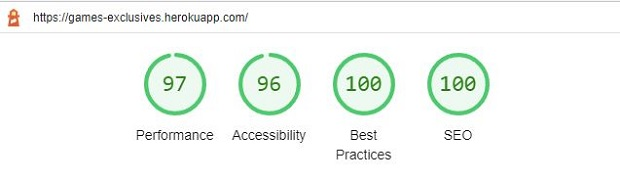
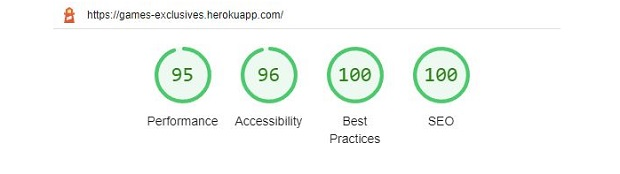
Changed lighthouse image in testing file, added comments in base.html

Changed region(s): [[0.0, 0.0, 1.0, 0.2011], [0.2145, 0.2586, 0.4903, 0.8046], [0.521, 0.2586, 0.7968, 0.8908]]

diff --git a/templates/base.html b/templates/base.html
@@ -14,6 +14,7 @@
     <meta name="keywords" content="game, games, video games, video games store, xbox games, xbox only games,
         xbox exclusive games, playstation games, playstation only games, playstation exclusive games, 
         nintendo games, nintendo exclusive games, pc games, pc only games, classic pc games, pc exclusive games">
+     <!-- Favicon -->   
     <link rel="shortcut icon" type="image/png" href="{% static 'favicon/favicon.ico' %}" title="Games Exclusives">
     {% endblock %}
 
@@ -25,13 +26,14 @@
     <link rel="stylesheet" href="https://cdn.jsdelivr.net/npm/bootstrap@4.6.1/dist/css/bootstrap.min.css"
         integrity="sha384-zCbKRCUGaJDkqS1kPbPd7TveP5iyJE0EjAuZQTgFLD2ylzuqKfdKlfG/eSrtxUkn" crossorigin="anonymous">
     <link rel="stylesheet" href="{% static 'css/base.css' %}">
+    <!-- Google fonts -->
     <link rel="preconnect" href="https://fonts.gstatic.com" crossorigin>
     <link rel="stylesheet" href="https://fonts.googleapis.com/css2?family=Electrolize&display=swap">
     {% endblock %}
 
     {% block extra_css %}
     {% endblock %}
-
+    <!-- Bootstrap JS, Popper, jquery -->
     {% block corejs %}
     <script src="https://cdn.jsdelivr.net/npm/jquery@3.5.1/dist/jquery.min.js"
         integrity="sha256-9/aliU8dGd2tb6OSsuzixeV4y/faTqgFtohetphbbj0=" crossorigin="anonymous"></script>

diff --git a/TESTING.md b/TESTING.md
@@ -398,28 +398,37 @@ All of the listed tests were performed on desktop PC, Dell laptop, iPhone 8, iPh
 ## **Lighthouse Testing**
 <details>
 <summary>Desktop lighthouse testing</summary>
-  Home page
+  
+  **HOME PAGE**
+
   ![Home page - lighthouse desktop](media/testing/validators/lighthouse_desktop.JPG)
 
-  Games page
+  **GAMES PAGE**
+
   ![Games page - lighthouse desktop](media/testing/validators/lighthouse_games_desktop.JPG)
 
-  Game detail page
+  **GAME DETAIL PAGE**
+
   ![Game detail page - lighthouse desktop](media/testing/validators/lighthouse_game_detail_desktop.JPG)
 
-  Profile page
+ **PROFILE PAGE**
+
   ![Profile page - lighthouse desktop](media/testing/validators/lighthouse_profile_desktop.JPG)
 
-  Favourites page
+ **FAVOURITES PAGE**
+
   ![Favourites page - lighthouse desktop](media/testing/validators/lighthouse_favourites_desktop.JPG)
 
-  Contact page
+**CONTACT PAGE**
+
   ![Contact page - lighthouse desktop](media/testing/validators/lighthouse_contact_desktop.JPG)
 
-  Shopping basket page
+  **SHOPPING BASKET PAGE**
+
   ![Shopping basket - lighthouse desktop](media/testing/validators/lighthouse_shopping_basket_desktop.JPG)
 
-  Checkout page
+  **CHECKOUT PAGE**
+
   ![Checkout page - lighthouse desktop](media/testing/validators/lighthouse_checkout_desktop.JPG)
 </details>
 
@@ -427,12 +436,15 @@ All of the listed tests were performed on desktop PC, Dell laptop, iPhone 8, iPh
 <summary>Mobile lighthouse testing</summary>
 
 - While Lighthouse testing was quite high in desktop version, the performance during mobile testing was lacking. It is mostly due to render-blocking resources like jquery, bootstrap js and css. 
-I have originally got a very high score on Lighthouse under mobile performance, but it had dropped down and it's moving around 70-82 points only on Performance. 
 
-Home page - first testing
+- I have originally got a very high score on Lighthouse under mobile performance, but it had dropped down and it's moving around 70-87 points only on Performance. 
+
+ **HOME PAGE - first test**
+
 ![Home page - lighthouse first mobile testing](media/testing/validators/lighthouse_mobile.JPG)
 
-Home page - following testing
+**HOME PAGE - following tests**
+
 ![Home page - lighthouse first mobile testing](media/testing/validators/lighthouse_mobile_second.JPG)
 </details>
 
